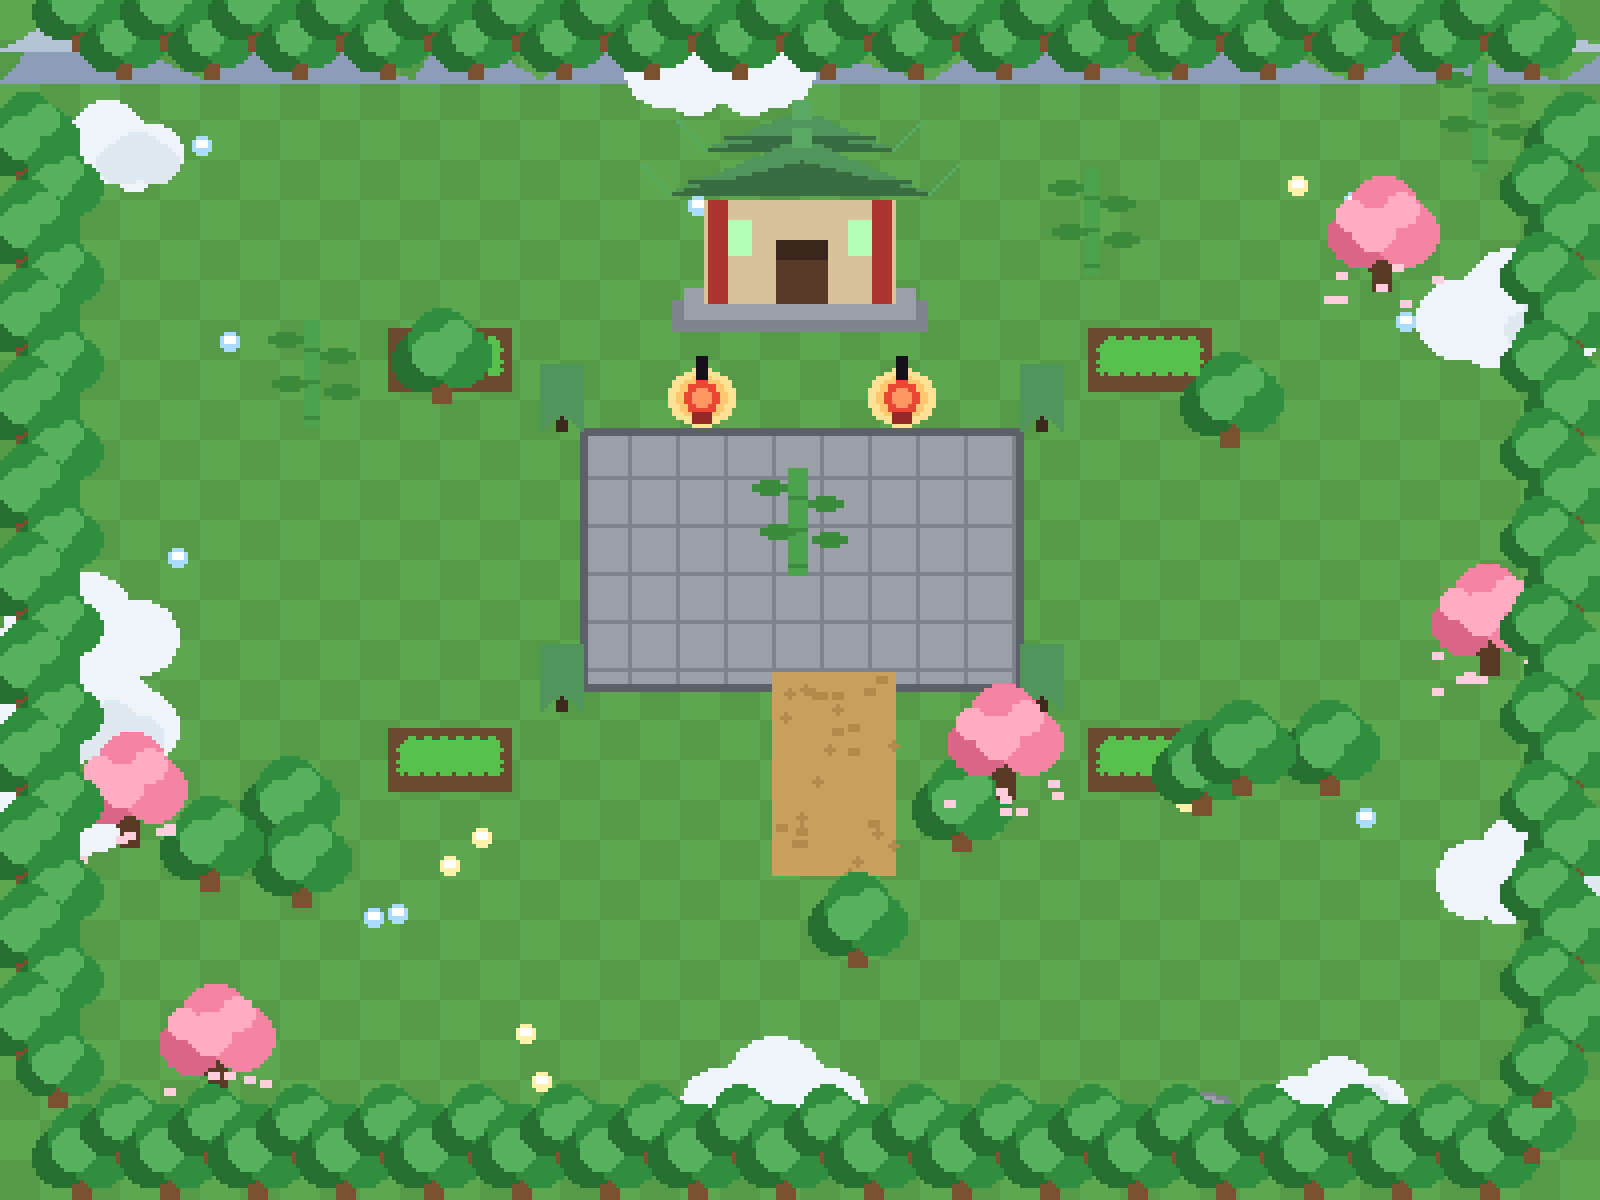
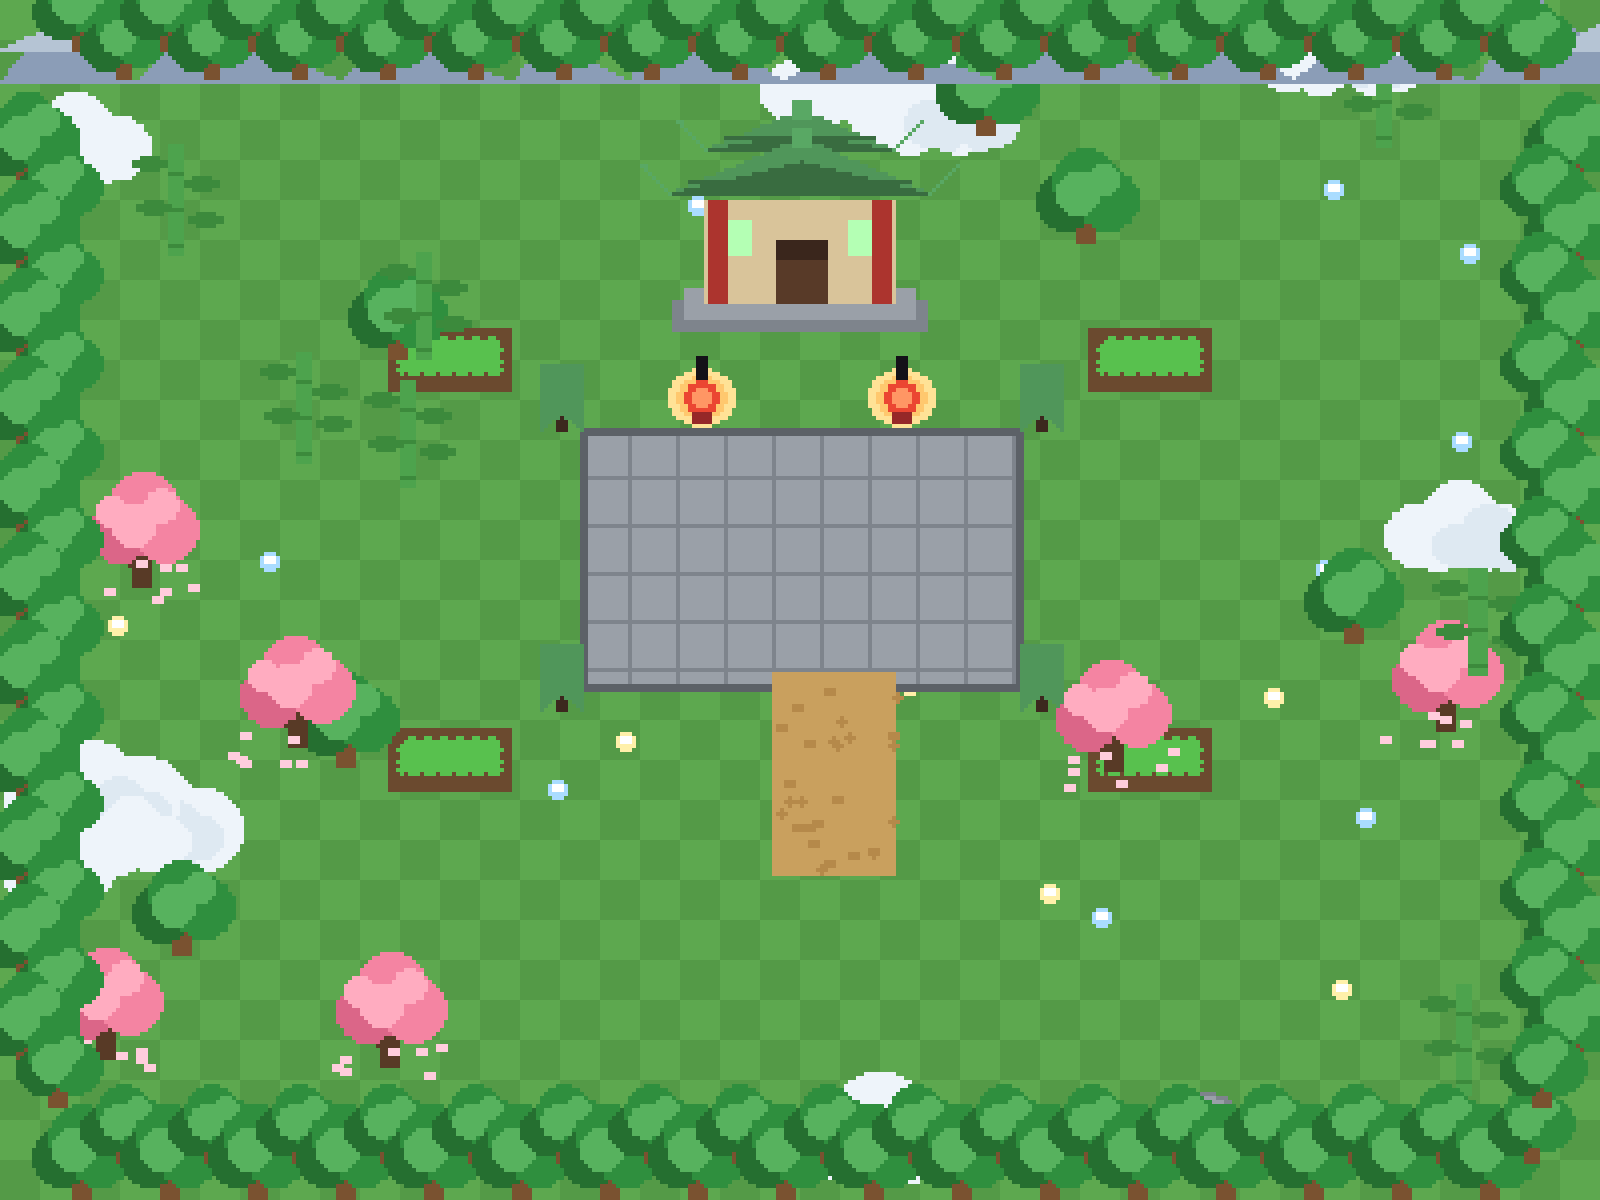
Build 37: sua quest panel (tab cat chu, x3 dinh), NPC voice unlock iOS + nut thu, sap xep lai NPC map 0, nui xa hien sau cay, camera muot

diff --git a/js/data.js b/js/data.js
@@ -2426,49 +2426,49 @@ const NPCS = {
   /* NPC nhánh ma đạo (Bui duyệt 2026-10-18): sư phụ U Minh Tôn Giả + Thánh Tử Mặc Vô Tâm */
   u_minh_ton_gia: { nameKey: "npc_u_minh_ton_gia", mapId: 10, x: 800, y: 400, kind: "quest", img: "assets/sprs/npc_u_minh_ton_gia.png" },
   mac_vo_tam: { nameKey: "npc_mac_vo_tam", mapId: 10, x: 900, y: 450, kind: "quest", img: "assets/sprs/npc_mac_vo_tam.png" },
-  lao_dan_duong: { nameKey: "npc_lao_dan_duong", mapId: 0, x: 700, y: 100, kind: "dungeon_guide", img: "assets/sprs/npc_lao_dan_duong.png" },
+  lao_dan_duong: { nameKey: "npc_lao_dan_duong", mapId: 0, x: 700, y: 150, kind: "dungeon_guide", img: "assets/sprs/npc_lao_dan_duong.png" },
   thu_thap_nhan: { nameKey: "npc_thu_thap_nhan", mapId: 0, x: 780, y: 300, kind: "tower_guide", img: "assets/sprs/npc_thu_thap_nhan.png" },
   lao_nong_dan: { nameKey: "npc_lao_nong_dan", mapId: 3, x: 400, y: 300, kind: "farm", stock: ["hat_linh_chi", "hat_truc_co_thao", "hat_dia_linh_qua"], img: "assets/sprs/npc_lao_nong_dan.png" },
-  lao_ren: { nameKey: "npc_lao_ren", mapId: 0, x: 150, y: 450, kind: "forge", stock: ["wpn_phan", "arm_phan", "acc_phan", "wpn_linh", "arm_linh", "acc_linh"], img: "assets/sprs/npc_lao_ren.png" },
+  lao_ren: { nameKey: "npc_lao_ren", mapId: 0, x: 180, y: 980, kind: "forge", stock: ["wpn_phan", "arm_phan", "acc_phan", "wpn_linh", "arm_linh", "acc_linh"], img: "assets/sprs/npc_lao_ren.png" },
   ma_luyen_su: { nameKey: "npc_ma_luyen_su", mapId: 10, x: 800, y: 760, kind: "forge", stock: ["wpn_phan", "arm_phan", "acc_phan", "wpn_linh", "arm_linh", "acc_linh"], img: "assets/sprs/npc_ma_luyen_su.png" },
   ma_thuong_nhan: { nameKey: "npc_ma_thuong_nhan", mapId: 11, x: 1100, y: 800, kind: "shop", stock: ["pill_hx", "pill_hl", "dan_hx_tieu", "dan_hl_tieu", "ho_the_phu"], img: "assets/sprs/npc_ma_thuong_nhan.png" },
-  minh_chu: { nameKey: "npc_minh_chu", mapId: 0, x: 480, y: 200, kind: "alliance", unlock: {realm: 2}, img: "assets/sprs/npc_minh_chu.png" },
+  minh_chu: { nameKey: "npc_minh_chu", mapId: 0, x: 1050, y: 330, kind: "alliance", unlock: {realm: 2}, img: "assets/sprs/npc_minh_chu.png" },
   phu_su: { nameKey: "npc_phu_su", mapId: 6, x: 800, y: 760, kind: "shop", stock: ["ho_the_phu", "dan_hl_tieu", "dan_hl_trung", "thanh_tam_qua", "duong_than_dan"], img: "assets/sprs/npc_phu_su.png" },
   quan_mo: { nameKey: "npc_quan_mo", mapId: 4, x: 350, y: 350, kind: "shop", stock: ["pill_hx", "pill_hl", "dan_hx_tieu", "dan_hl_tieu", "ho_the_phu"], img: "assets/sprs/npc_quan_mo.png" },
   ren_su_kiem: { nameKey: "npc_ren_su_kiem", mapId: 5, x: 800, y: 760, kind: "forge", stock: ["wpn_phan", "arm_phan", "acc_phan", "wpn_linh", "arm_linh", "acc_linh"], img: "assets/sprs/npc_ren_su_kiem.png" },
-  su_gia_duoc: { nameKey: "npc_su_gia_duoc", mapId: 0, x: 300, y: 200, kind: "sect_emissary", sect: "duoc_vuong_tong", img: "assets/sprs/npc_su_gia_duoc.png" },
-  su_gia_kiem: { nameKey: "npc_su_gia_kiem", mapId: 0, x: 380, y: 120, kind: "sect_emissary", sect: "kiem_tong", img: "assets/sprs/npc_su_gia_kiem.png" },
-  su_gia_ma: { nameKey: "npc_su_gia_ma", mapId: 0, x: 150, y: 200, kind: "sect_emissary", sect: "cuu_u_ma_tong", img: "assets/sprs/npc_su_gia_ma.png" },
-  su_gia_phap: { nameKey: "npc_su_gia_phap", mapId: 0, x: 480, y: 120, kind: "sect_emissary", sect: "thien_phap_tong", img: "assets/sprs/npc_su_gia_phap.png" },
-  su_gia_the: { nameKey: "npc_su_gia_the", mapId: 0, x: 580, y: 120, kind: "sect_emissary", sect: "kim_cang_tong", img: "assets/sprs/npc_su_gia_the.png" },
-  su_gia_thu: { nameKey: "npc_su_gia_thu", mapId: 0, x: 660, y: 320, kind: "sect_emissary", sect: "ngu_thu_tong", img: "assets/sprs/npc_su_gia_thu.png" },
-  tam_tien_bi_tich: { nameKey: "npc_tam_tien", mapId: 0, x: 680, y: 240, kind: "gacha", img: "assets/sprs/npc_tam_tien_bi_tich.png" },
+  su_gia_duoc: { nameKey: "npc_su_gia_duoc", mapId: 0, x: 840, y: 440, kind: "sect_emissary", sect: "duoc_vuong_tong", img: "assets/sprs/npc_su_gia_duoc.png" },
+  su_gia_kiem: { nameKey: "npc_su_gia_kiem", mapId: 0, x: 600, y: 440, kind: "sect_emissary", sect: "kiem_tong", img: "assets/sprs/npc_su_gia_kiem.png" },
+  su_gia_ma: { nameKey: "npc_su_gia_ma", mapId: 0, x: 1000, y: 440, kind: "sect_emissary", sect: "cuu_u_ma_tong", img: "assets/sprs/npc_su_gia_ma.png" },
+  su_gia_phap: { nameKey: "npc_su_gia_phap", mapId: 0, x: 680, y: 440, kind: "sect_emissary", sect: "thien_phap_tong", img: "assets/sprs/npc_su_gia_phap.png" },
+  su_gia_the: { nameKey: "npc_su_gia_the", mapId: 0, x: 760, y: 440, kind: "sect_emissary", sect: "kim_cang_tong", img: "assets/sprs/npc_su_gia_the.png" },
+  su_gia_thu: { nameKey: "npc_su_gia_thu", mapId: 0, x: 920, y: 440, kind: "sect_emissary", sect: "ngu_thu_tong", img: "assets/sprs/npc_su_gia_thu.png" },
+  tam_tien_bi_tich: { nameKey: "npc_tam_tien", mapId: 0, x: 620, y: 300, kind: "gacha", img: "assets/sprs/npc_tam_tien_bi_tich.png" },
   tho_san: { nameKey: "npc_tho_san", mapId: 1, x: 500, y: 620, kind: "shop", stock: ["pill_hx", "pill_hl", "dan_hx_tieu", "dan_hl_tieu", "thit_yeu_thu"], img: "assets/sprs/npc_tho_san.png" },
-  thuong_nhan: { nameKey: "npc_thuong_nhan", mapId: 0, x: 700, y: 450, kind: "shop", stock: ["pill_hx", "pill_hl", "dan_hx_tieu", "dan_hl_tieu", "duong_than_dan", "ho_the_phu", "manual_kiem_1", "manual_phap_1", "manual_the_1", "trung_pham", "hat_linh_chi", "hat_truc_co_thao", "the_doi_ten", "the_doi_gioi_tinh", "ttd_ha", "dtd_ha", "ho_mach_dan", "dan_tho_tieu", "dan_dien_tho", "dan_truong_sinh"], img: "assets/sprs/npc_thuong_nhan.png" },
-  thuong_nhan_du_hanh: { nameKey: "npc_thuong_nhan_du_hanh", mapId: 0, x: 640, y: 140, kind: "market", img: "assets/sprs/npc_thuong_nhan_du_hanh.png" },
+  thuong_nhan: { nameKey: "npc_thuong_nhan", mapId: 0, x: 250, y: 880, kind: "shop", stock: ["pill_hx", "pill_hl", "dan_hx_tieu", "dan_hl_tieu", "duong_than_dan", "ho_the_phu", "manual_kiem_1", "manual_phap_1", "manual_the_1", "trung_pham", "hat_linh_chi", "hat_truc_co_thao", "the_doi_ten", "the_doi_gioi_tinh", "ttd_ha", "dtd_ha", "ho_mach_dan", "dan_tho_tieu", "dan_dien_tho", "dan_truong_sinh"], img: "assets/sprs/npc_thuong_nhan.png" },
+  thuong_nhan_du_hanh: { nameKey: "npc_thuong_nhan_du_hanh", mapId: 0, x: 410, y: 880, kind: "market", img: "assets/sprs/npc_thuong_nhan_du_hanh.png" },
   thuong_nhan_mo: { nameKey: "npc_thuong_nhan_mo", mapId: 4, x: 1250, y: 850, kind: "shop", stock: ["dan_hx_trung", "dan_hl_trung", "duong_than_dan", "thanh_tam_qua"], img: "assets/sprs/npc_thuong_nhan_mo.png" },
   tien_ong: { nameKey: "npc_tien_ong", mapId: 12, x: 800, y: 400, kind: "shop", shopTitle: "shop_tien_ong", stock: ["tien_thao", "dan_hx_trung", "dan_hl_trung", "duong_than_dan", "thanh_tam_qua", "trung_linh"], img: "assets/sprs/npc_tien_ong.png", wander: 60 },
-  tieu_nhi: { nameKey: "npc_tieu_nhi", mapId: 0, x: 280, y: 120, kind: "inn", img: "assets/sprs/npc_tieu_nhi.png" },
-  truong_lang: { nameKey: "npc_truong_lang", mapId: 0, x: 350, y: 350, kind: "quest", img: "assets/sprs/npc_truong_lang.png" },
-  co_tran_tu: { nameKey: "npc_co_tran_tu", mapId: 0, x: 620, y: 380, kind: "quest", img: "assets/sprs/npc_co_tran_tu.png" },
-  to_uyen_nhi: { nameKey: "npc_to_uyen_nhi", mapId: 0, x: 560, y: 430, kind: "greet", img: "assets/sprs/npc_to_uyen_nhi.png" },
-  diep_van: { nameKey: "npc_diep_van", mapId: 0, x: 850, y: 500, kind: "greet", img: "assets/sprs/npc_diep_van.png" },
-  dan_lang_1: { nameKey: "npc_dan_lang_1", mapId: 0, x: 450, y: 550, kind: "greet", img: "assets/sprs/npc_dan_lang_1.png", talkKey: "npc_dan_lang_1_talk" },
-  dan_lang_2: { nameKey: "npc_dan_lang_2", mapId: 0, x: 750, y: 600, kind: "greet", img: "assets/sprs/npc_dan_lang_2.png", talkKey: "npc_dan_lang_2_talk" },
-  dan_lang_3: { nameKey: "npc_dan_lang_3", mapId: 0, x: 1000, y: 420, kind: "greet", img: "assets/sprs/npc_dan_lang_3.png", talkKey: "npc_dan_lang_3_talk" },
+  tieu_nhi: { nameKey: "npc_tieu_nhi", mapId: 0, x: 1230, y: 1060, kind: "inn", img: "assets/sprs/npc_tieu_nhi.png" },
+  truong_lang: { nameKey: "npc_truong_lang", mapId: 0, x: 950, y: 350, kind: "quest", img: "assets/sprs/npc_truong_lang.png" },
+  co_tran_tu: { nameKey: "npc_co_tran_tu", mapId: 0, x: 900, y: 850, kind: "quest", img: "assets/sprs/npc_co_tran_tu.png" },
+  to_uyen_nhi: { nameKey: "npc_to_uyen_nhi", mapId: 0, x: 700, y: 850, kind: "greet", img: "assets/sprs/npc_to_uyen_nhi.png" },
+  diep_van: { nameKey: "npc_diep_van", mapId: 0, x: 800, y: 850, kind: "greet", img: "assets/sprs/npc_diep_van.png" },
+  dan_lang_1: { nameKey: "npc_dan_lang_1", mapId: 0, x: 280, y: 1020, kind: "greet", img: "assets/sprs/npc_dan_lang_1.png", talkKey: "npc_dan_lang_1_talk" },
+  dan_lang_2: { nameKey: "npc_dan_lang_2", mapId: 0, x: 1230, y: 900, kind: "greet", img: "assets/sprs/npc_dan_lang_2.png", talkKey: "npc_dan_lang_2_talk" },
+  dan_lang_3: { nameKey: "npc_dan_lang_3", mapId: 0, x: 1130, y: 1060, kind: "greet", img: "assets/sprs/npc_dan_lang_3.png", talkKey: "npc_dan_lang_3_talk" },
   tiep_dan_su: { nameKey: "npc_tiep_dan_su", mapId: 14, x: 800, y: 1050, kind: "quest", img: "assets/sprs/npc_tiep_dan_su.png" },
   truong_lao_truyen_cong: { nameKey: "npc_truong_lao_truyen_cong", mapId: 14, x: 800, y: 350, kind: "quest", img: "assets/sprs/npc_truong_lao_truyen_cong.png" },
-  truong_lao: { nameKey: "npc_truong_lao", mapId: 0, x: 420, y: 240, kind: "sect", img: "assets/sprs/npc_truong_lao.png" },
+  truong_lao: { nameKey: "npc_truong_lao", mapId: 0, x: 1200, y: 300, kind: "sect", img: "assets/sprs/npc_truong_lao.png" },
   truong_lao_duoc: { nameKey: "npc_truong_lao_duoc", mapId: 8, x: 800, y: 280, kind: "sect", sect: "duoc_vuong_tong", img: "assets/sprs/npc_truong_lao_duoc.png" },
   truong_lao_kiem: { nameKey: "npc_truong_lao_kiem", mapId: 5, x: 800, y: 280, kind: "sect", sect: "kiem_tong", img: "assets/sprs/npc_truong_lao_kiem.png" },
   truong_lao_ma: { nameKey: "npc_truong_lao_ma", mapId: 10, x: 800, y: 280, kind: "sect", sect: "cuu_u_ma_tong", img: "assets/sprs/npc_truong_lao_ma.png" },
   truong_lao_phap: { nameKey: "npc_truong_lao_phap", mapId: 6, x: 800, y: 280, kind: "sect", sect: "thien_phap_tong", img: "assets/sprs/npc_truong_lao_phap.png" },
   truong_lao_the: { nameKey: "npc_truong_lao_the", mapId: 7, x: 800, y: 280, kind: "sect", sect: "kim_cang_tong", img: "assets/sprs/npc_truong_lao_the.png" },
   truong_lao_thu: { nameKey: "npc_truong_lao_thu", mapId: 9, x: 800, y: 280, kind: "sect", sect: "ngu_thu_tong", img: "assets/sprs/npc_truong_lao_thu.png" },
-  truong_tran: { nameKey: "npc_truong_tran", mapId: 0, x: 480, y: 380, kind: "guide", img: "assets/sprs/npc_truong_tran.png" },
+  truong_tran: { nameKey: "npc_truong_tran", mapId: 0, x: 900, y: 300, kind: "guide", img: "assets/sprs/npc_truong_tran.png" },
   tuan_thu_phan_da: { nameKey: "npc_tuan_thu_phan_da", mapId: 9, x: 800, y: 760, kind: "pet", unlock: {realm: 2}, img: "assets/sprs/npc_tuan_thu_phan_da.png" },
-  tuan_thu_su: { nameKey: "npc_tuan_thu_su", mapId: 0, x: 250, y: 520, kind: "pet", unlock: {realm: 2}, img: "assets/sprs/npc_tuan_thu_su.png" },
-  van_tien_cac: { nameKey: "npc_van_tien_cac", mapId: 0, x: 600, y: 240, kind: "shop", img: "assets/sprs/npc_van_tien_cac.png" },
+  tuan_thu_su: { nameKey: "npc_tuan_thu_su", mapId: 0, x: 600, y: 880, kind: "pet", unlock: {realm: 2}, img: "assets/sprs/npc_tuan_thu_su.png" },
+  van_tien_cac: { nameKey: "npc_van_tien_cac", mapId: 0, x: 330, y: 1030, kind: "shop", img: "assets/sprs/npc_van_tien_cac.png" },
   vo_tang: { nameKey: "npc_vo_tang", mapId: 7, x: 800, y: 760, kind: "shop", stock: ["kim_cang_dan", "dan_hx_trung", "dan_hx_dai", "ho_the_phu"], img: "assets/sprs/npc_vo_tang.png" },
 };
 

diff --git a/js/ui.js b/js/ui.js
@@ -2185,7 +2185,8 @@ function questNeedText(q) {
     try {
       if (typeof NPCS !== "undefined" && NPCS[id] && NPCS[id].nameKey) return t(NPCS[id].nameKey);
     } catch (e) {}
-    return id;
+    /* Bui 2026-10-21: fallback đẹp thay vì hiện raw id */
+    return String(id || "").replace(/_/g, " ").replace(/\b\w/g, function (c) { return c.toUpperCase(); });
   };
   if (need.type === "kill") {
     var mn = monName(need.monster);
@@ -2235,7 +2236,11 @@ function rewardText(rw) {
   var parts = [];
   if (rw.stones) parts.push(formatTien(rw.stones) + " 💎");
   if (rw.exp) parts.push(rw.exp + " EXP");
-  (rw.items || []).forEach(function (it) { parts.push(itemName(it.id) + "x" + (it.qty || 1)); });
+  /* Bui 2026-10-21: cách ra " x3", ẩn "x1" cho gọn */
+  (rw.items || []).forEach(function (it) {
+    var q = it.qty || 1;
+    parts.push(itemName(it.id) + (q > 1 ? " x" + q : ""));
+  });
   return parts.join(", ");
 }
 
@@ -2597,7 +2602,8 @@ function renderSettings() {
     '<button class="mini' + (st.voice === false ? " paper" : "") + '" data-act="set-voice">' + esc(st.voice === false ? t("settings_off") : t("settings_on")) + "</button></div></div>";
   var nvOn = (typeof NPCVoice !== "undefined") ? NPCVoice.isEnabled() : true;
   h += '<div class="row"><div class="item-name">' + esc(t("settings_npcvoice")) + '</div><div class="row-btns">' +
-    '<button class="mini' + (nvOn ? "" : " paper") + '" data-act="set-npcvoice">' + esc(nvOn ? t("settings_on") : t("settings_off")) + "</button></div></div>";
+    '<button class="mini' + (nvOn ? "" : " paper") + '" data-act="set-npcvoice">' + esc(nvOn ? t("settings_on") : t("settings_off")) + "</button>" +
+    '<button class="mini" data-act="test-npcvoice">🔊 ' + esc(t("settings_test")) + "</button></div></div>";
   h += renderControlSettings();
   h += renderDisplayRows();
   h += '<div class="row"><div class="item-name">' + esc(t("settings_lang")) + '</div><div class="row-btns">' +
@@ -3242,6 +3248,12 @@ function onPanelClick(e) {
     case "set-npcvoice":
       if (typeof NPCVoice !== "undefined") NPCVoice.setEnabled(!NPCVoice.isEnabled());
       renderPanel(); break;
+    case "test-npcvoice": /* Bui 2026-10-21: nút thử giọng đọc */
+      if (typeof NPCVoice !== "undefined") {
+        NPCVoice.unlock();
+        NPCVoice.speak(null, t("settings_npcvoice_test"));
+      }
+      break;
     /* ----- Các nút bị mất handler (vá 2026-10-20): render có nhưng switch thiếu case ----- */
     case "gacha-pull": doGachaPull(+el.getAttribute("data-n") || 1); break;
     case "gacha-merge": {

diff --git a/js/engine.js b/js/engine.js
@@ -501,6 +501,7 @@ var Engine = (function () {
   function enterMap(mapId) {
     _dungeon = null;
     _secret = null;
+    _resetCamera(); /* camera bám ngay, không trượt từ map cũ */
     _mapId = mapId;
     _mapDef = _mapDefOf(mapId);
     /* warm ảnh tilemap tiền-render để không pop-in frame đầu */
@@ -1990,14 +1991,20 @@ var Engine = (function () {
   }
 
   /* ---------- Render ---------- */
+  var _camX = null, _camY = null; /* Bui 2026-10-21: camera mượt, không giật */
   function _camera() {
-    var x = player.x - _viewW / 2, y = player.y - _viewH / 2;
-    if (WORLD_W <= _viewW) x = (WORLD_W - _viewW) / 2;
-    else x = Math.max(0, Math.min(WORLD_W - _viewW, x));
-    if (WORLD_H <= _viewH) y = (WORLD_H - _viewH) / 2;
-    else y = Math.max(0, Math.min(WORLD_H - _viewH, y));
-    return { x: x, y: y };
+    var tx = player.x - _viewW / 2, ty = player.y - _viewH / 2;
+    if (WORLD_W <= _viewW) tx = (WORLD_W - _viewW) / 2;
+    else tx = Math.max(0, Math.min(WORLD_W - _viewW, tx));
+    if (WORLD_H <= _viewH) ty = (WORLD_H - _viewH) / 2;
+    else ty = Math.max(0, Math.min(WORLD_H - _viewH, ty));
+    if (_camX === null) { _camX = tx; _camY = ty; }
+    else { _camX += (tx - _camX) * 0.12; _camY += (ty - _camY) * 0.12;
+      if (Math.abs(tx - _camX) < 0.5) _camX = tx;
+      if (Math.abs(ty - _camY) < 0.5) _camY = ty; }
+    return { x: _camX, y: _camY };
   }
+  function _resetCamera() { _camX = null; _camY = null; }
   function _mapName() {
     return _mapDef ? _t(_mapDef.nameKey || ('map_' + _mapId)) : '';
   }

diff --git a/js/npcvoice.js b/js/npcvoice.js
@@ -148,7 +148,33 @@ var NPCVoice = (function () {
     return speak(npcId, resolved);
   }
 
+  /* Bui 2026-10-21: iOS chặn speechSynthesis tới khi có thao tác chạm —
+     mở khóa bằng utterance rỗng ở lần chạm/click đầu tiên */
+  var _unlocked = false;
+  function unlock() {
+    if (_unlocked) return;
+    _unlocked = true;
+    try {
+      var ss = _ss();
+      if (!ss || typeof ss.speak !== "function") return;
+      var Ctor = (typeof SpeechSynthesisUtterance !== "undefined")
+        ? SpeechSynthesisUtterance : (typeof window !== "undefined" && window.SpeechSynthesisUtterance);
+      if (!Ctor) return;
+      var u = new Ctor(" ");
+      u.volume = 0; u.rate = 1; u.pitch = 1;
+      ss.speak(u);
+    } catch (e) {}
+  }
+  try {
+    if (typeof document !== "undefined" && document.addEventListener) {
+      var _ul = function () { unlock(); };
+      document.addEventListener("touchstart", _ul, { once: true, passive: true });
+      document.addEventListener("click", _ul, { once: true });
+    }
+  } catch (e) {}
+
   var api = {
+    unlock: unlock, /* Bui 2026-10-21: gọi tay để test */
     voiceFor: voiceFor,   /* thuần — dùng cho test */
     cleanText: cleanText, /* thuần — dùng cho test */
     pickVoice: pickVoice,

diff --git a/js/lang.js b/js/lang.js
@@ -251,6 +251,8 @@ vi: {
   ctl_large: "Lớn",
   ctl_pos_reset: "Đặt lại vị trí nút",
   settings_npcvoice: "Giọng đọc NPC",
+  settings_test: "Thử",
+  settings_npcvoice_test: "Đạo hữu, có nghe rõ lão phu nói không?",
   npc_talk: "Nói chuyện",
   npc_quest: "Nhiệm vụ",
   npc_shop: "Cửa hàng",
@@ -3009,6 +3011,8 @@ en: {
   ctl_large: "Large",
   ctl_pos_reset: "Reset button position",
   settings_npcvoice: "NPC voice",
+  settings_test: "Test",
+  settings_npcvoice_test: "Fellow traveler, can you hear me?",
   npc_talk: "Talk",
   npc_quest: "Quests",
   npc_shop: "Shop",

diff --git a/index.html b/index.html
@@ -11,7 +11,7 @@
 <script>
 /* TT_BUILD: phiên bản build — tăng mỗi lần deploy để tránh cache JS/CSS cũ.
    (Giá trị dùng chung cho toàn trang, khai báo 1 lần duy nhất tại đây.) */
-var TT_BUILD = "20261020-36";
+var TT_BUILD = "20261021-37";
 </script>
 <script>document.write('<link rel="stylesheet" href="css/style.css?v=' + TT_BUILD + '">');</script>
 <script>document.write('<link rel="stylesheet" href="css/hud-tutien2d.css?v=' + TT_BUILD + '">');</script>

diff --git a/css/style.css b/css/style.css
@@ -1195,3 +1195,7 @@ body.landscape #hud-leftmid{top:40%}
   border:2px solid #c9a227;border-radius:50%;box-shadow:0 4px 16px #000d;
   cursor:pointer;pointer-events:auto}
 #quest-fab.hidden{display:none}
+
+/* Bui 2026-10-21: tab nhiệm vụ bị cắt chữ trên iOS — ép đủ cao, không cắt dấu */
+.panel-quest .tabs .mini{line-height:1.5!important;padding:8px 6px!important;
+  white-space:nowrap;overflow:visible;min-height:38px}
